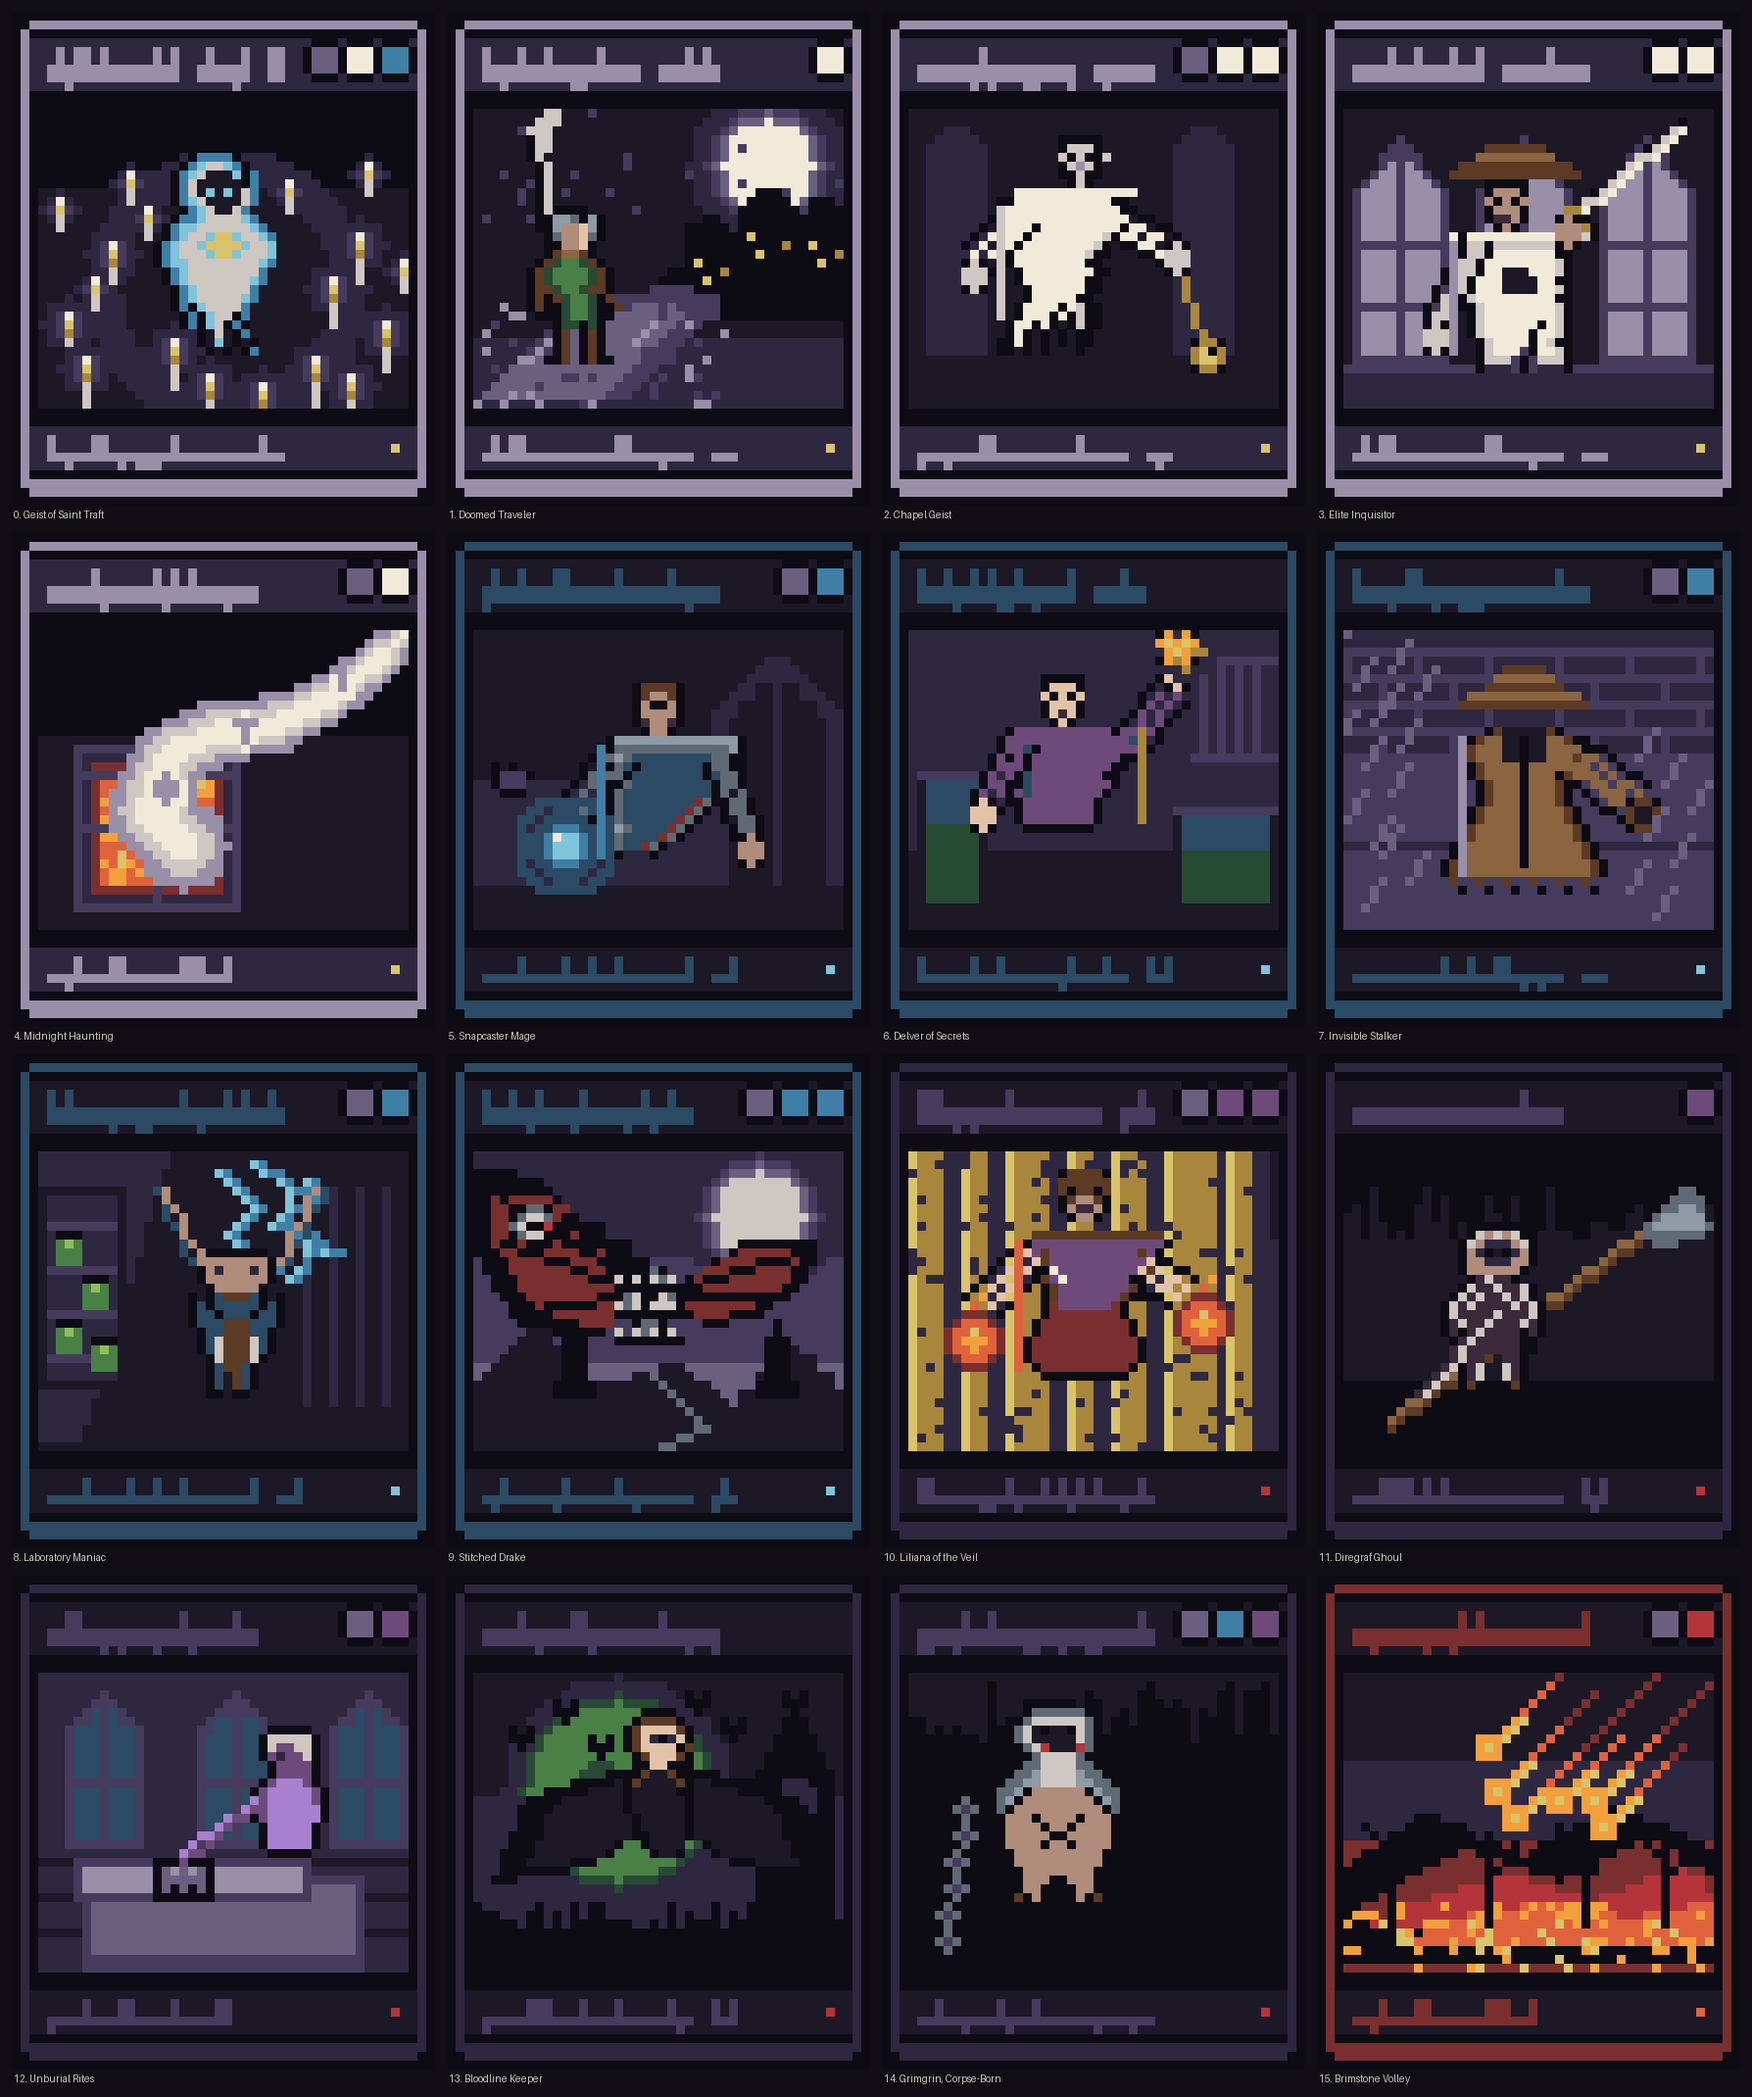
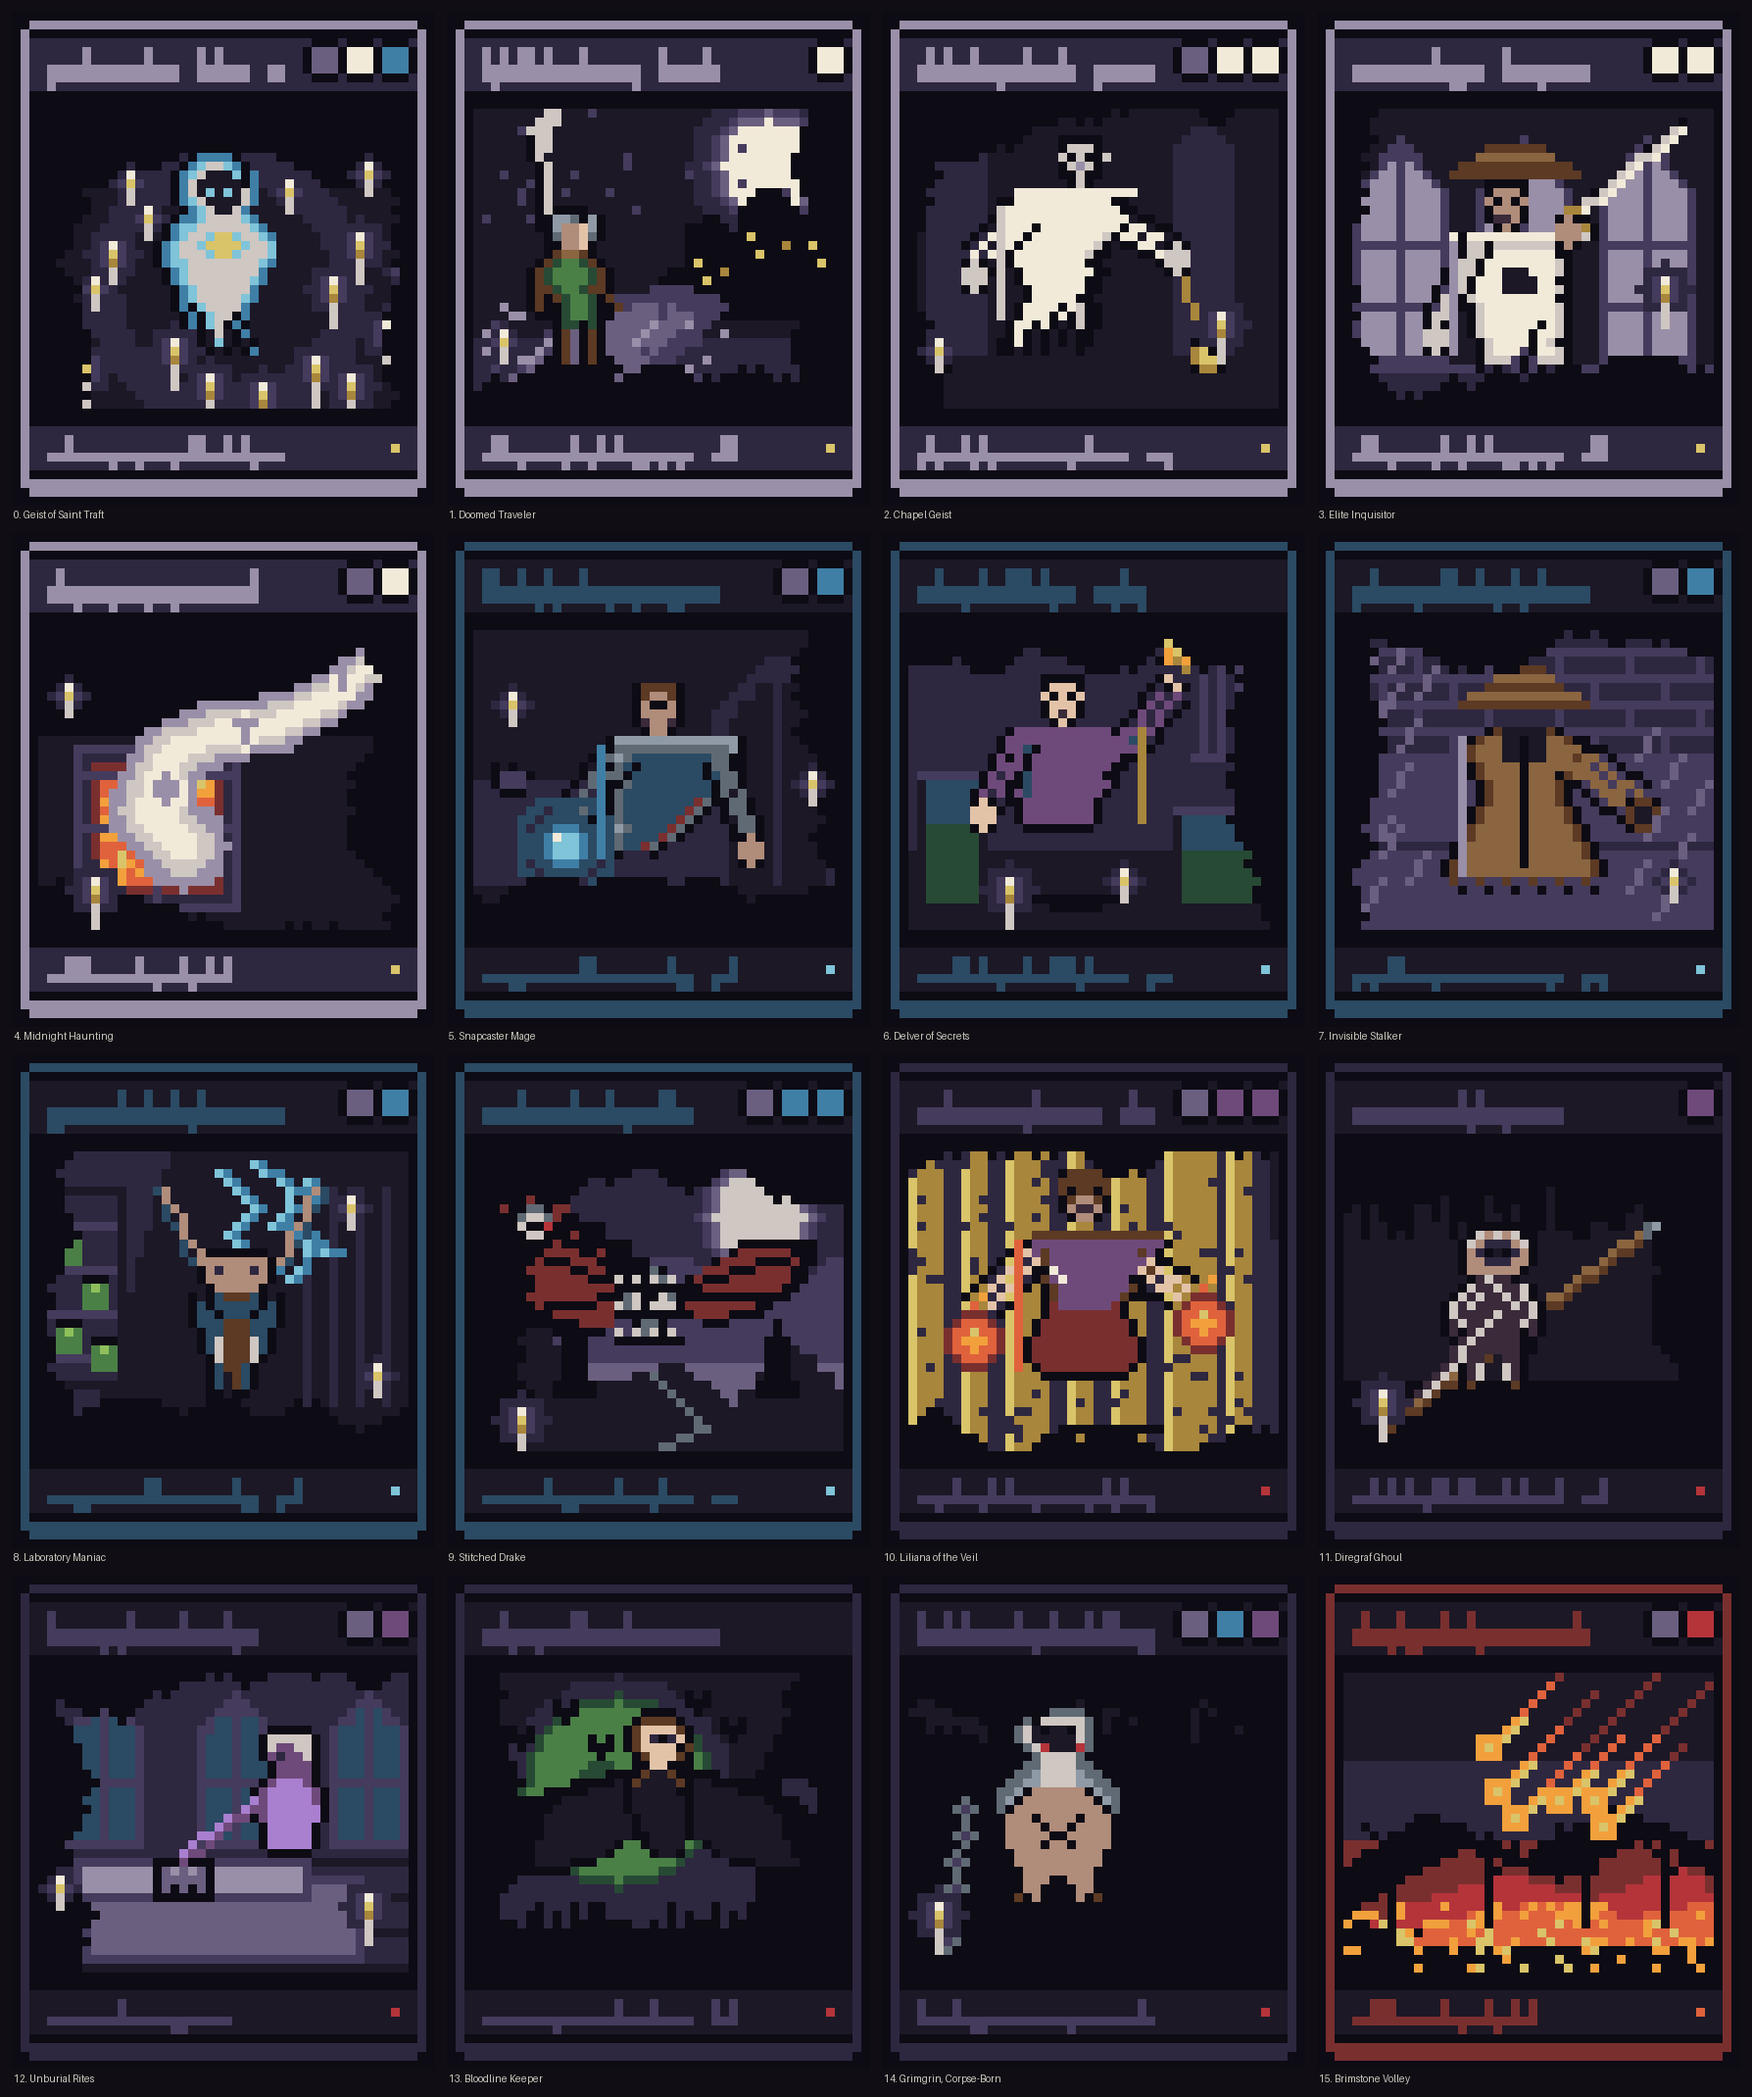
Give the set a grammar: aperture, candles, contact shadows
Audit round 2's verdict was that the set cohered at the palette level and
nowhere else — half the cards were staged environments with a horizon, half
were sprites pasted on a flat wall. Three rules, applied across all 32:

  Aperture. Every card is now seen through something. Two of four edges are
  bitten by a ragged near-black occluder belonging to that card's own world,
  never symmetrically. This is generalised from the Mountain card, which
  works because its darkness is a shape rather than an absence; it also
  manufactures the third depth plane most cards were missing.

  Candles. A votive flame, promoted out of Geist of Saint Traft and made the
  set's signature: always the warmest thing on the card, and the count
  carries meaning — one for a lone soul, two for a duel or a bargain, a
  field of them for mass death, and none at all on the werewolf and moon
  cards, where the moon takes their place.

  Contact. Any figure standing on ground gets a shadow under its feet. A
  figure without one is a sprite on a backdrop, not a body in a place.

The four client-approved cards (Brimstone Volley, Spider Spawning, Mountain,
Forest) are exempt — they already did all three, which is why they were
approved.

Two real bugs fixed alongside:

  poly() sampled scanlines at y+0.5, so a polygon with bottom vertices on
  the last row never filled it and the sky gradient survived as a bright
  hairline along the bottom of a third of the set. Bottom vertices are now
[…]

diff --git a/scripts/pixelart/art.py b/scripts/pixelart/art.py
@@ -850,3 +850,63 @@ def _():
     for y in range(14, 26): cv.set(19, y, 'c')                   # rim from his flame
     return cv
 
+
+# ══ SET GRAMMAR ══════════════════════════════════════════════════════
+# Three rules applied across all 32 after each illustration is drawn, so the
+# set reads as one art object rather than 32 competent pictures.
+#
+#   1. APERTURE — every card is seen through something. Two of four edges are
+#      bitten by a ragged occluder belonging to that card's own world. Never
+#      symmetric, never the same depth twice.
+#   2. CANDLES  — a votive flame is the warmest thing on almost every card,
+#      and the count means something: 1 = a lone soul, 2 = a duel or bargain,
+#      many = mass death, ZERO = the werewolf/moon cards, where the moon
+#      takes the candles' place.
+#   3. CONTACT  — any figure standing on ground gets a shadow under its feet.
+#
+# The four client-approved cards are exempt: they already do all of this.
+APPROVED = {"Brimstone Volley", "Spider Spawning", "Mountain", "Forest"}
+
+FINISH = {
+ # name: (aperture sides, depth, seed, colour, [candles], contact or None)
+ "Geist of Saint Traft":  (('L','R'), 3,11, '0',  [], None),
+ "Doomed Traveler":       (('B','R'), 3,3, '0',  [(3,26,False)], (8,29,9)),
+ "Chapel Geist":          (('T','L'), 4,5, '0',  [(35,24,True),(3,27,False)], None),
+ "Elite Inquisitor":      (('L','B'), 4,7, '0',  [(36,20,True)], (16,31,13)),
+ "Midnight Haunting":     (('R','B'), 4,9, '0',  [(3,7,False),(6,29,True)], None),
+ "Snapcaster Mage":       (('R','B'), 4,13, '0',  [(4,8,False),(38,17,False)], (17,30,13)),
+ "Delver of Secrets":     (('T','R'), 3,17, '0',  [(11,29,True),(24,28,False)], (13,30,11)),
+ "Invisible Stalker":     (('L','T'), 3,19, '0',  [(37,28,False)], None),
+ "Laboratory Maniac":     (('L','B'), 4,23, '0',  [(35,6,False),(38,25,False)], (19,30,11)),
+ "Stitched Drake":        (('T','L'), 4,29, '0',  [(5,30,True)], None),
+ "Liliana of the Veil":   (('T','B'), 3,31, '0',  [], (16,31,13)),
+ "Diregraf Ghoul":        (('R','T'), 4,37, '0',  [(4,28,True)], (12,29,11)),
+ "Unburial Rites":        (('L','T'), 4,41, '0',  [(37,26,True),(2,24,False)], None),
+ "Bloodline Keeper":      (('L','R'), 4,43, '0',  [], None),
+ "Grimgrin, Corpse-Born": (('T','R'), 4,47, '0',  [(3,27,True)], (14,31,15)),
+ "Devil's Play":          (('L','T'), 3,53, '0',  [], None),
+ "Balefire Dragon":       (('B','L'), 3,59, '0',  [], None),
+ "Instigator Gang":       (('L','R'), 3,61, 'k',  [(20,3,False)], (14,31,15)),
+ "Blasphemous Act":       (('L','R'), 4,67, '0',  [(6,12,True),(35,12,True),(4,22,False),(37,22,False)], None),
+ "Mayor of Avabruck":     (('T','R'), 3,71, '0',  [], (18,29,11)),
+ "Kessig Cagebreakers":   (('T','B'), 3,73, '0',  [], None),
+ "Garruk Relentless":     (('L','B'), 4,79, 'r',  [], (13,31,15)),
+ "Gatstaf Shepherd":      (('T','L'), 3,83, '0',  [], (12,29,9)),
+ "Plains":                (('L','T'), 4,89, '0',  [(33,22,False)], None),
+ "Island":                (('T','R'), 4,97, '0',  [], None),
+ "Swamp":                 (('R','T'), 4,101, '0',  [(6,27,True)], None),
+ "Kessig Wolf Run":       (('L','B'), 4,103, '0',  [], None),
+ "Blazing Torch":         (('R','T'), 3,107, '0',  [], (24,30,11)),
+}
+
+def finish(name, cv):
+    """Apply the set grammar. Approved cards pass through untouched."""
+    if name in APPROVED or name not in FINISH:
+        return cv
+    sides, depth, seed, col, candles, contact = FINISH[name]
+    cv.aperture(sides, depth, seed, col)
+    if contact:
+        cv.contact(*contact)
+    for (x, y, big) in candles:
+        cv.candle(x, y, big)
+    return cv

diff --git a/scripts/pixelart/engine.py b/scripts/pixelart/engine.py
@@ -77,7 +77,14 @@ class Canvas:
             self.set(round(cx+r*math.cos(math.radians(a))),
                      round(cy+r*math.sin(math.radians(a))), c)
     def poly(self, pts, c):
-        """Scanline-fill a polygon."""
+        """Scanline-fill a polygon.
+
+        A vertex sitting exactly on the last row is extended past the edge:
+        scanlines sample at y+0.5, so a bottom edge at y=h-1 bounds a region
+        that contains no sample and the row never fills. That left a bright
+        1px hairline of unpainted sky along the bottom of a third of the set.
+        """
+        pts = [(x, (self.h + 1) if y >= self.h - 1 else y) for (x, y) in pts]
         ys = [p[1] for p in pts]
         for y in range(int(min(ys))-1, int(max(ys))+1):
             yc = y + 0.5
@@ -148,5 +155,52 @@ class Canvas:
         """A 3x4 hand block. Every arm must end in one, touching its object."""
         self.stamp(x, y, [shade+skin+shade, skin+skin+skin,
                           skin+skin+skin, shade+skin+shade])
+
+    def aperture(self, sides, depth=8, seed=0, c='0', jitter=1):
+        """Bite a ragged dark occluder into two edges of the frame.
+
+        Lifted from the Mountain card, which works because its darkness is a
+        *shape* rather than an absence: a jagged near-black margin eats the
+        outer columns and forces the eye into the lit centre. Generalised
+        here into the set's framing device — every card is seen through
+        something that belongs to its own world (chapel tracery, brambles,
+        the edge of a coffin lid) — which manufactures a third plane and
+        kills the flat-backdrop look. Never applied symmetrically.
+        """
+        import random
+        rng = random.Random(seed)
+        for side in sides:
+            d = depth
+            if side in 'LR':
+                for y in range(self.h):
+                    d = max(1, min(depth + 3, d + rng.randint(-jitter, jitter)))
+                    if side == 'L': self.hline(y, 0, d-1, c)
+                    else:           self.hline(y, self.w-d, self.w-1, c)
+            else:
+                for x in range(self.w):
+                    d = max(0, min(depth + 2, d + rng.randint(-jitter, jitter)))
+                    if side == 'T': self.vline(x, 0, d-1, c)
+                    else:           self.vline(x, self.h-d, self.h-1, c)
+
+    def candle(self, x, y, big=False):
+        """The set's signature: a votive flame, always the warmest thing here.
+
+        Promoted out of Geist of Saint Traft and made a set-wide rule. The
+        NUMBER of candles is a deliberate signal — one for a lone figure, two
+        for a duel or a bargain, an uncountable field for mass death, and
+        none at all on the werewolf cards, where the moon replaces them.
+        """
+        self.disc(x, y, 3.0 if big else 2.0, '2')
+        self.disc(x, y, 1.6 if big else 1.1, '3')
+        self.vline(x, y+1, y + (4 if big else 2), '6')
+        self.set(x, y, '8'); self.set(x, y-1, '7')
+        if big: self.set(x, y+1, '9')
+
+    def contact(self, x, y, w):
+        """A ground shadow. A figure without one is a sprite on a backdrop."""
+        for i in range(w):
+            t = abs(i - w/2) / (w/2)
+            if t < 0.85: self.set(x+i, y, '0')
+            if t < 0.5:  self.set(x+i, y+1, '0')
 
     def rows(self): return [''.join(r) for r in self.px]

diff --git a/scripts/pixelart/font.py b/scripts/pixelart/font.py
@@ -36,9 +36,17 @@ def draw_text(cv, x, y, s, c):
                     if b == '1': cv.set(x+dx, y+dy, c)
         x += 4
 def draw_greek(cv, x, y, w, s, c, seed=0, h=5):
-    """Illegible word-shapes with the rhythm of the real string."""
-    import random
-    rng = random.Random(hash(s) & 0xffff if seed == 0 else seed)
+    """Illegible word-shapes with the rhythm of the real string.
+
+    Seeded with a *stable* hash of the text. Python's built-in hash() is
+    randomised per process (PYTHONHASHSEED), so seeding from it gave every
+    card different greeked handwriting on every render — the same card was
+    never twice the same, and diffing two renders showed 50k changed pixels
+    with no source change. A card's scribble is part of its identity and
+    must be reproducible.
+    """
+    import random, zlib
+    rng = random.Random(zlib.crc32(s.encode()) & 0xffff if seed == 0 else seed)
     cx = x
     for word in s.upper().split():
         wl = max(2, min(len(word)*3, w - (cx - x)))

diff --git a/scripts/pixelart/card.py b/scripts/pixelart/card.py
@@ -39,16 +39,6 @@ def make_card(art_rows, color='B', name='', typeline='', cost='', greek=True):
         cv.disc(px, 5, 1.7, PIPS.get(sym,'4'), edge=key); px -= 4
 
     cv.rect(ART_X-1, ART_Y-1, ART_X+AW, ART_Y+AH, key)   # art window
-    # Half the set ended with a bright 1px hairline at the art's last row: a
-    # gradient's bottom stop, or the Canvas fill, never overpainted by the
-    # scene. It reads as a stray glowing line right above the type bar. If the
-    # final row is a single flat colour that the row above doesn't share,
-    # it's that artefact rather than real ground — carry row -2 down.
-    art_rows = list(art_rows)
-    if len(art_rows) >= 2:
-        last, above = art_rows[-1], art_rows[-2]
-        if len(set(last)) == 1 and last[0] not in set(above):
-            art_rows[-1] = above
     for dy, row in enumerate(art_rows):
         for dx, ch in enumerate(row):
             if ch != '.': cv.set(ART_X+dx, ART_Y+dy, ch)

diff --git a/scripts/pixelart/render.py b/scripts/pixelart/render.py
@@ -1,3 +1,5 @@
+import sys
+sys.dont_write_bytecode = True
 import json, sys, math
 from PIL import Image, ImageDraw
 sys.path.insert(0,'.')
@@ -13,7 +15,7 @@ def cost_syms(mc):
     return ''.join(out[:5])
 def build(name, greek=True, scale=6):
     m = meta[name]
-    cv = art.ART[name]()
+    cv = art.finish(name, art.ART[name]())
     c = card.make_card(cv.rows(), m['bucket'], name, m['type_line'],
                        cost_syms(m.get('mana_cost','')), greek=greek)
     return card.to_image(c, scale)

diff --git a/scripts/pixelart/scene.py b/scripts/pixelart/scene.py
@@ -1,3 +1,5 @@
+import sys
+sys.dont_write_bytecode = True
 import sys; sys.path.insert(0,'.')
 import board
 # A real mid-game position: turn 7, green-white werewolves vs blue-black zombies.

diff --git a/scripts/pixelart/allsheet.py b/scripts/pixelart/allsheet.py
@@ -1,3 +1,6 @@
+import sys
+sys.dont_write_bytecode = True
+import sys
 import sys, math, json; sys.path.insert(0,'.')
 import art, render
 from PIL import Image, ImageDraw

diff --git a/scripts/pixelart/sheet.py b/scripts/pixelart/sheet.py
@@ -1,3 +1,5 @@
+import sys
+sys.dont_write_bytecode = True
 import json, sys, math
 from PIL import Image, ImageDraw
 meta = json.load(open('refs/meta.json'))

diff --git a/scripts/pixelart/zoom.py b/scripts/pixelart/zoom.py
@@ -1,3 +1,5 @@
+import sys
+sys.dont_write_bytecode = True
 import sys; sys.path.insert(0,'.')
 import art, card, render
 from PIL import Image
